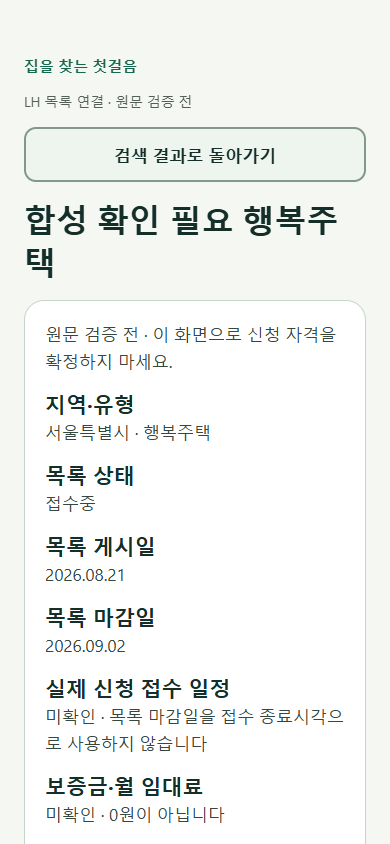
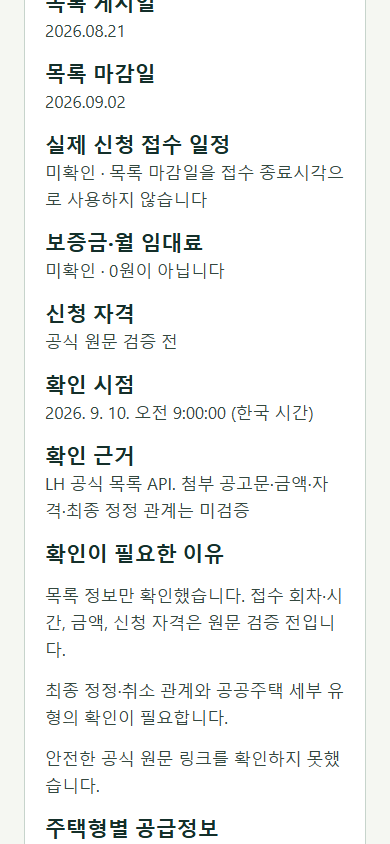
Document new PC setup and run browser QA with Chrome

diff --git a/docs/guides/NEW_PC_SETUP.md b/docs/guides/NEW_PC_SETUP.md
@@ -1,0 +1,206 @@
+# 다른 PC에서 설치·실행·테스트하기
+
+작성일: 2026-09-18. 대상: Windows 10/11, PowerShell. 저장소: https://github.com/KimJaeseon/housing-app
+
+처음 받는 PC는 **clone → 도구·의존성 설치 → 키 없는 검사 → 필요하면 LH 키 등록·실제 조회** 순서로 진행한다. 이미 받은 PC는 7절의 pull 절차를 따른다. 명령은 블록별로 실행하고 오류가 나면 다음 단계로 넘어가지 않는다.
+
+현재 키 저장은 Windows DPAPI를 사용하고 QA 스크립트는 `.venv/Scripts/python.exe`와 Chrome를 직접 실행한다. macOS/Linux에서 아래 명령을 그대로 실행할 수는 없다. Codex 설치는 필요하지 않다.
+
+## 1. 준비할 프로그램
+
+| 프로그램 | 기준 | 확인 명령 |
+|---|---|---|
+| Git for Windows | Git 명령 사용 가능 | `git --version` |
+| Python | 3.12.x, 현재 개발 PC 3.12.14 | `py -3.12 --version` |
+| Node.js | 24.x, 현재 개발 PC 24.19.0 | `node --version` |
+| pnpm | 11.19.0 | `pnpm.cmd --version` |
+| Google Chrome | 설치된 정식 버전 | 시작 메뉴에서 실행 확인 |
+
+설치 안내: [Git](https://git-scm.com/downloads/win), [Python](https://www.python.org/downloads/windows/), [Node.js](https://nodejs.org/en/download), [Chrome](https://www.google.com/chrome/).
+
+Node.js 설치 후 새 PowerShell에서 pnpm을 설치한다. `.cmd`를 사용하면 PowerShell의 npm.ps1/pnpm.ps1 실행 정책 문제를 피할 수 있다.
+
+```powershell
+npm.cmd install --global pnpm@11.19.0
+git --version
+py -3.12 --version
+node --version
+pnpm.cmd --version
+```
+
+프로젝트의 React Native 패키지가 Node 24에서 요구하는 최소 버전은 24.3.0이다. 현재 개발 PC 버전은 참고용이며, 새 PC에서 설치가 검증됐다는 의미는 아니다. [pnpm 설치 안내](https://pnpm.io/installation)
+
+## 2. 처음 내려받기 — clone
+
+아래는 사용자 홈 아래에 housing-app 폴더를 만드는 예시다. 이미 같은 이름의 폴더가 있으면 다른 위치를 선택한다. 공개 저장소를 내려받는 데 GitHub 로그인은 필요 없다.
+
+```powershell
+Set-Location $env:USERPROFILE
+git clone https://github.com/KimJaeseon/housing-app.git
+Set-Location .\housing-app
+git status --short --branch
+```
+
+이후 명령의 '프로젝트 루트'는 방금 생성된 housing-app 폴더다. 기존 개발 PC의 C:\data\menual 경로를 만들 필요는 없다.
+
+## 3. 의존성 설치
+
+프로젝트 루트에서 Python 환경을 만든다. 가상환경 활성화 없이 실행 파일을 직접 사용하므로 Activate.ps1 설정은 필요 없다.
+
+```powershell
+py -3.12 -m venv .venv
+.\.venv\Scripts\python.exe -m pip install -r backend/requirements.lock.txt
+.\.venv\Scripts\python.exe -m pip check
+```
+
+프론트엔드 의존성을 설치한다.
+
+```powershell
+Set-Location .\frontend
+pnpm.cmd install --frozen-lockfile
+Set-Location ..
+```
+
+다른 PC의 .venv, node_modules, dist 폴더를 복사하지 않는다. 저장소의 잠금 파일로 다시 설치한다. 패키지 다운로드에는 인터넷이 필요하다.
+
+## 4. LH 승인키 없이 자동검사
+
+실행 중인 개발 서버가 있다면 해당 터미널에서 Ctrl+C로 종료한다. 웹 QA는 8000·18800 포트를 직접 사용하며 다른 프로세스를 종료하거나 재사용하지 않는다.
+
+프로젝트 루트에서:
+
+```powershell
+.\.venv\Scripts\python.exe -m unittest discover -s backend -p "test_*.py"
+.\.venv\Scripts\python.exe backend/contracts/test_reference_rules.py
+```
+
+기대 결과: 두 명령 모두 종료 코드 0, unittest 결과 OK. 실제 LH 승인키는 필요하지 않다.
+
+이어 프론트엔드를 검사한다. API 주소를 localhost로 고정한 뒤 빌드해야 다른 PC의 주소가 결과물에 섞이지 않는다.
+
+```powershell
+Set-Location .\frontend
+$env:EXPO_PUBLIC_API_URL='http://127.0.0.1:8000'
+$env:LH_ENABLE_PROBE='0'
+$env:LH_ENABLE_LIST='0'
+$env:LH_ENABLE_SUPPLY='0'
+pnpm.cmd exec tsc --noEmit
+pnpm.cmd exec expo export --platform web
+node qa.mjs
+Set-Location ..
+```
+
+기대 결과: 타입 검사·빌드·QA 모두 종료 코드 0. QA는 합성 응답과 로컬 서버를 사용한다. frontend/qa/results.json에서 violations가 빈 배열이고 passed 항목이 false가 아닌지 확인한다. 검사별 PNG도 같은 폴더에 생성된다. 기존 검증 자료와 달라질 수 있으므로 실행 후 git status로 변경 파일을 확인한다.
+
+QA는 `channel: 'chrome'`를 사용하므로 **Google Chrome 설치가 필요**하다. Playwright의 Chromium만 설치하는 것으로 대체되지 않는다. [Playwright 브라우저 안내](https://playwright.dev/docs/browsers)
+
+## 5. 브라우저에서 수동 테스트
+
+서로 다른 PowerShell 창 두 개를 연다. 아래 경로는 2절의 clone 위치 기준이다.
+
+창 1 — 키 없이 서버 실행:
+
+```powershell
+Set-Location "$env:USERPROFILE\housing-app"
+$env:LH_ENABLE_PROBE='0'
+$env:LH_ENABLE_LIST='0'
+$env:LH_ENABLE_SUPPLY='0'
+.\.venv\Scripts\python.exe -m uvicorn backend.app:app --host 127.0.0.1 --port 8000 --no-access-log
+```
+
+창 2 — 화면 실행:
+
+```powershell
+Set-Location "$env:USERPROFILE\housing-app\frontend"
+$env:EXPO_PUBLIC_API_URL='http://127.0.0.1:8000'
+pnpm.cmd web
+```
+
+브라우저에서 http://localhost:8081 을 연다. Expo가 다른 포트를 선택했다면 터미널에 표시된 주소를 사용한다.
+
+- http://127.0.0.1:8000/health 에서 status가 ok이고 live_collection이 false인지 확인한다.
+- 앱의 '가상 화면 미리보기로 전환'에서 목록·상세·오류·빈 결과를 확인한다.
+- 이 실행 방식에서 실제 검색은 서비스 미준비 안내가 정상이다. 실제 공고가 없다는 뜻은 아니다.
+- 종료는 각 창에서 Ctrl+C. 자동검사를 다시 실행하기 전에 서버를 종료한다.
+
+## 6. 실제 LH 조회 — 승인키 필요
+
+새 PC의 프로젝트 루트에서 해당 PC의 Windows 사용자 계정으로 키를 다시 등록한다.
+
+```powershell
+.\.venv\Scripts\python.exe -m backend.key_store save
+.\.venv\Scripts\python.exe -m backend.key_store status
+```
+
+숨김 입력란에 발급받은 일반 인증키를 입력한다. ready는 로컬 저장·복호화 가능 상태이며 외부 API 활용승인을 보장하지 않는다. `.secrets/lh-service-key.dpapi`는 PC·계정에 종속되므로 이전 PC에서 복사하지 않는다. 키를 명령행 인자, GitHub, EXPO_PUBLIC_ 변수에 넣지 않는다. 목록 API와 공급정보 API의 활용승인을 각각 확인한다. 자세한 내용은 [키 관리](../backend/KEY_MANAGEMENT.md)를 따른다.
+
+창 1의 기존 서버를 종료한 뒤 프로젝트 루트에서 실행한다. 이전에 설정한 LH_SERVICE_KEY 환경변수가 있으면 저장 파일보다 우선하므로 아래 명령으로 현재 창에서 해제한다.
+
+```powershell
+Remove-Item Env:LH_SERVICE_KEY -ErrorAction SilentlyContinue
+.\.venv\Scripts\python.exe -m backend.serve_lh --start 2026.08.01 --end 2026.09.16
+```
+
+창 2는 5절의 pnpm.cmd web을 그대로 사용한다. health의 live_collection이 true인지 확인한 뒤 서울 검색 → 확인 필요 또는 마감·취소 탭 → 상세 → 공급정보 조회를 확인한다.
+
+날짜는 **게시일 조회 범위**다. 위 날짜는 기존 검증 표본을 재현하기 위한 예시이며 현재 모집 중 공고 전체를 보장하지 않는다. 최근 범위는 서버를 종료하고 날짜를 YYYY.MM.DD 형식으로 바꿔 재실행한다. 원문·신청 자격 검증이 끝난 공고와 목록 조회 성공은 구분한다.
+
+선택: 실제 목록 연동 자동검사. 개발 서버를 종료하고 4절의 웹 빌드를 마친 뒤 실행한다.
+
+```powershell
+Set-Location .\frontend
+$env:EXPO_PUBLIC_API_URL='http://127.0.0.1:8000'
+Remove-Item Env:LH_SERVICE_KEY -ErrorAction SilentlyContinue
+node qa-live-list.mjs
+Set-Location ..
+```
+
+이 스크립트는 저장된 키로 실제 LH 검색을 수행하며 내부 날짜가 2026.08.01~2026.09.16으로 고정돼 있다. 마감·취소 2건과 특정 정정공고를 기대하므로 원천 데이터가 변하면 실패할 수 있다. 실패 시 API 승인·응답과 기대값을 함께 검토한다. 결과는 frontend/qa/live-results.json이다. 이 검사는 공급정보 전체와 모바일 실기 검사를 대체하지 않는다.
+
+## 7. 이후 최신 소스 받기 — pull
+
+개발 서버를 종료하고 프로젝트 루트에서 먼저 변경 상태를 확인한다.
+
+```powershell
+git status --short --branch
+```
+
+변경 사항이 있으면 필요한 코드·검증 자료를 먼저 검토해서 커밋하거나 따로 보관한다. 테스트가 갱신한 파일도 확인한다. 변경이 남은 상태에서 강제 초기화하거나 덮어쓰지 않는다. 로컬 변경을 정리한 뒤:
+
+```powershell
+git switch main
+git pull --ff-only origin main
+.\.venv\Scripts\python.exe -m pip install -r backend/requirements.lock.txt
+.\.venv\Scripts\python.exe -m pip check
+Set-Location .\frontend
+pnpm.cmd install --frozen-lockfile
+Set-Location ..
+```
+
+그다음 4절 검사와 웹 빌드를 다시 진행한다. --ff-only가 실패하면 로컬·원격 이력이 갈라진 것이므로 자동 강제 병합하지 말고 변경 내역을 확인한다. 키는 pull할 때마다 다시 등록할 필요가 없다.
+
+## 8. 자주 막히는 부분
+
+| 증상 | 확인·해결 |
+|---|---|
+| git/node/pnpm 명령을 찾지 못함 | 설치 후 PowerShell을 새로 열고 PATH 및 버전 확인 |
+| py -3.12 실패 | Python 3.12와 실행 런처 설치 확인. python --version이 3.12라면 python -m venv .venv 사용 가능 |
+| pnpm.ps1 실행이 차단됨 | pnpm 대신 pnpm.cmd, npm 대신 npm.cmd 사용 |
+| frozen-lockfile 오류 | pnpm 11.19.0과 최신 소스 확인. 잠금 파일을 임의 삭제하지 말고 package.json과 일치 여부 확인 |
+| 패키지 버전을 찾을 수 없음 | 사내 미러·네트워크·레지스트리 설정과 잠금 버전 확인. 임의 최신 버전 교체는 별도 변경으로 검토 |
+| Chrome executable 없음 | Chrome 정식 버전을 설치하고 재실행 |
+| Port 8000/18800 is in use | 해당 개발 서버 창에서 Ctrl+C 후 재시도 |
+| QA에서 빈 화면/404 | frontend에서 웹 빌드 성공 및 dist/index.html 생성 확인 |
+| 앱에서 서버 연결 실패 | /health 확인, EXPO_PUBLIC_API_URL 확인 후 Expo 재시작·웹 재빌드 |
+| 로컬 키를 읽을 수 없음 | 새 PC·현재 Windows 계정에서 key_store save 재실행 |
+| API_KEY_NOT_REGISTERED / 403 | 해당 API 활용승인·키·승인 반영 상태 확인 |
+| 확인된 공고가 0건 | 원문 검증 미완료 상태와 조회 범위 확인. 전체 공고 없음으로 해석하지 않음 |
+
+휴대폰 실기 연결과 VoiceOver/TalkBack 검수는 [직접 테스트 안내](RUN_AND_TEST.md)의 4절을 참고한다. 웹 검사 통과를 네이티브 앱 통과로 기록하지 않는다.
+
+## 9. 문서 검증 범위
+
+명령·경로·포트·환경변수·브라우저 조건은 현재 저장소 코드와 대조했다. 런타임 버전은 기존 개발 PC에서 확인했다. 이 문서 작성만으로 별도의 새 PC에서 의존성 설치 및 전체 검사를 완료한 것은 아니다. 테스트 결과를 공유할 때 OS, Python/Node/pnpm 버전, 커밋 ID(git rev-parse --short HEAD), 실패한 명령과 키를 제거한 오류 메시지를 함께 남긴다.
+
+
+작성 시 기존 개발 PC에서 실행한 검사 결과는 [Chrome 검증 기록](../validation/2026-09-18_NEW_PC_CHROME.md)을 참고한다.

diff --git a/docs/guides/RUN_AND_TEST.md b/docs/guides/RUN_AND_TEST.md
@@ -1,3 +1,5 @@
+새 PC에서 처음 실행한다면 [다른 PC 설치·실행·테스트 가이드](NEW_PC_SETUP.md)부터 진행하세요. 아래의 기존 개발 PC 전용 경로 대신 새 가이드의 clone 위치와 pnpm.cmd 명령을 사용하세요.
+
 최신 API 규격 확인: 제공된 20260708 DOCX 가이드와 대조해 요청·응답·오류 처리를 보완했다. [가이드 반영 결과](../validation/2026-09-16_GUIDE_ALIGNMENT.md)를 참고한다. 게시일 PAN_ST_DT/PAN_ED_DT는 가이드에도 명시되어 있다. 상세 공고 내용의 검증 완료를 뜻하지 않는다.
 
 # 직접 실행하고 테스트하기
@@ -117,3 +119,4 @@ $env:LH_ENABLE_LIST='0'
 
 
 최신 재확인 — 2026-09-17 12:04 (한국 시간) 재확인: 저장된 암호화 키로 새 목록 조사 후 서울번동3 정정공고의 공급정보를 실제 요청했다. HTTP 200, available, 주택형 3건 및 서버 스키마·의미 검증 통과. 승인 반영에 따른 접근 성공을 확인했다. 보증금·월 임대료는 API의 공고문 참조 응답으로 미확인 유지. 해당 공고는 마감 상태이며 신청 가능 공고로 승격하지 않았다. 앱에서는 기존 실패 결과를 재사용하지 않도록 새 검색 후 상세의 공급정보 조회를 실행한다.
+

diff --git a/README.md b/README.md
@@ -3,6 +3,7 @@
 현재 단계: LH 임대주택 목록의 기간·페이지 조회, 확인 필요/마감·취소 구분, 앱 목록·상세·공식 원문 연결. 원문 검증 완료 공고와 로그인·저장 기능은 아직 미구현이다.
 
 - [프로그램 명세서](docs/PROGRAM_SPECIFICATION.md) — 기능·화면·API·데이터·현재 구현 및 후속 개발 기준
+- [다른 PC 설치·실행·테스트 가이드](docs/guides/NEW_PC_SETUP.md) — 최초 clone, 환경 설치, 키 등록, pull 후 재검사
 - [직접 실행·테스트 안내](docs/guides/RUN_AND_TEST.md)
 - [키 암호화 저장 안내](docs/backend/KEY_MANAGEMENT.md)
 - [제공된 API 가이드 반영 결과](docs/validation/2026-09-16_GUIDE_ALIGNMENT.md)
@@ -50,4 +51,5 @@ frontend: `pnpm exec tsc --noEmit`, `pnpm exec expo export --platform web`, `nod
 ## 소스 관리
 
 프론트엔드·백엔드·공통 계약·문서를 하나의 GitHub 저장소로 관리한다. [GitHub 작업 안내](docs/guides/GITHUB_WORKFLOW.md)를 따른다.
+
 

diff --git a/docs/validation/2026-09-18_NEW_PC_CHROME.md b/docs/validation/2026-09-18_NEW_PC_CHROME.md
@@ -1,0 +1,16 @@
+# 새 PC 가이드 및 Chrome QA 검증
+
+2026-09-18, 기존 Windows 개발 PC에서 실행.
+
+- Python 3.12.14, Node.js 24.19.0, pnpm 11.19.0.
+- Chrome 153.0.8010.52 headless 실행 성공.
+- backend unittest 114개 통과.
+- reference_rules 계약 검사 26개 통과.
+- TypeScript 검사 및 Expo 웹 export 통과.
+- Chrome qa.mjs 42개 결과 항목: 접근성 violations 없음, passed=false 없음.
+- 문서의 로컬 링크 존재 여부 확인.
+- 두 QA 스크립트의 JavaScript 구문 검사 통과.
+
+QA 실행 결과는 frontend/qa/results.json과 해당 PNG에 기록된다. 기존 파일과 내용이 달라진 두 화면 PNG를 함께 갱신했다.
+
+이번에는 실제 LH 조회 자동검사(qa-live-list.mjs), 모바일 실기 검사, 새 PC의 빈 환경에서 의존성 설치는 실행하지 않았다. 실제 조회 스크립트의 브라우저 채널도 Chrome으로 변경했으나 외부 API 호출 성공을 재검증한 것은 아니다.

diff --git a/docs/guides/GITHUB_WORKFLOW.md b/docs/guides/GITHUB_WORKFLOW.md
@@ -19,3 +19,5 @@
 ## 변경 검증
 
 백엔드 변경은 README의 Python 검사, 프론트엔드 변경은 TypeScript·웹 빌드·접근성 검사를 수행한다. 실제 LH 호출과 실기 접근성 검사는 별도로 실행 여부를 기록한다.
+
+상세한 설치 명령과 pull 후 검사 절차는 [다른 PC 설정 가이드](NEW_PC_SETUP.md)를 따른다.
